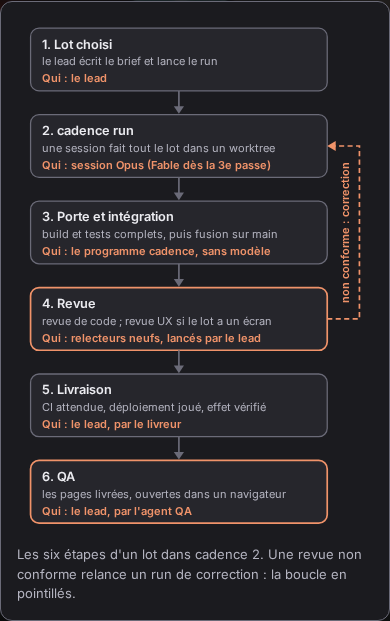
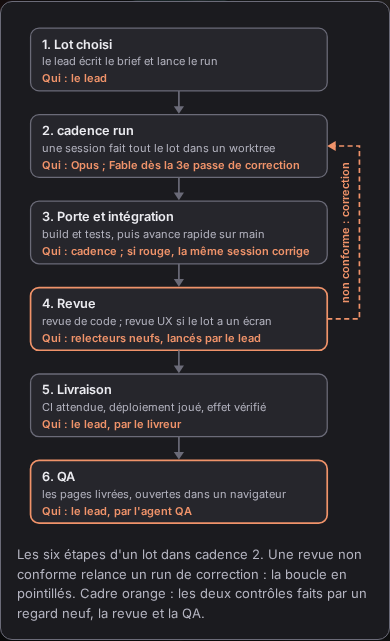
fix(L103): parcours cadence 2, corrections des revues du 26-11
Revue de code :
- « Fable dès la 3e passe de correction » (schéma, texte, desc et
  Nouveauté), et non « dès la 3e passe » ;
- porte et intégration : « avance rapide sur main » au lieu de
  « fusion » ; plus « sans modèle » : une porte rouge est corrigée par la
  même session (dit dans le schéma et le texte) ;
- test R3 : vérifie le sens de la boucle (le chemin part de la boîte
  Revue et arrive à la boîte cadence run), mutation vers: 2 vue rouge.

Revue UX :
- la figure V1 porte un titre visible « V1 · Le parcours d'un lot dans
  une vague » (et le même titre accessible) ; testé en R5 ;
- l'accent orange de 4. Revue et 6. QA est expliqué par la légende
  (« les deux contrôles faits par un regard neuf ») ; testé en R7.

StepChain/Schema non touchés (lot à part). Capture de la Nouveauté
refaite.

Changed region(s): [[0.0, 0.0306, 1.0, 1.0]]

diff --git a/docs/nouveautes/2026-11-26-l-etude-de-cas-montre-le-parcours-actuel-d-un-lot.md b/docs/nouveautes/2026-11-26-l-etude-de-cas-montre-le-parcours-actuel-d-un-lot.md
@@ -8,6 +8,6 @@ captures:
 ---
 L'étude de cas cadence montre maintenant le parcours d'un lot tel qu'il se fait aujourd'hui, avec cadence 2.
 
-- **Le schéma du parcours** suit six étapes et dit qui fait chacune : le lead choisit le lot, une session Opus le fait de bout en bout avec `cadence run`, le programme rejoue la porte de tests et intègre le travail, puis viennent la revue (de code, et UX si le lot touche un écran), la livraison et la QA.
-- **La boucle de correction** est dessinée : une revue non conforme relance un run de correction, confié à Fable dès la troisième passe ou après deux revues non conformes.
-- **Le parcours de la V1**, celui des vagues de sessions, reste lisible dans un chapitre à part, « Le point de départ : la V1 », daté et marqué comme historique, avec un lien vers sa documentation.
+- **Le schéma du parcours** suit six étapes et dit qui fait chacune : le lead choisit le lot, une session Opus le fait de bout en bout avec `cadence run`, le programme rejoue la porte de tests (si elle est rouge, la même session corrige) et amène le travail sur `main` par avance rapide, puis viennent la revue (de code, et UX si le lot touche un écran), la livraison et la QA.
+- **La boucle de correction** est dessinée : une revue non conforme relance un run de correction, confié à Fable dès la troisième passe de correction ou après deux revues non conformes. La légende dit ce que marque le cadre orange : les deux contrôles faits par un regard neuf, la revue et la QA.
+- **Le parcours de la V1**, celui des vagues de sessions, reste lisible dans un chapitre à part, « Le point de départ : la V1 », daté et marqué comme historique, avec un lien vers sa documentation ; son schéma porte le titre « V1 · Le parcours d'un lot dans une vague ».
